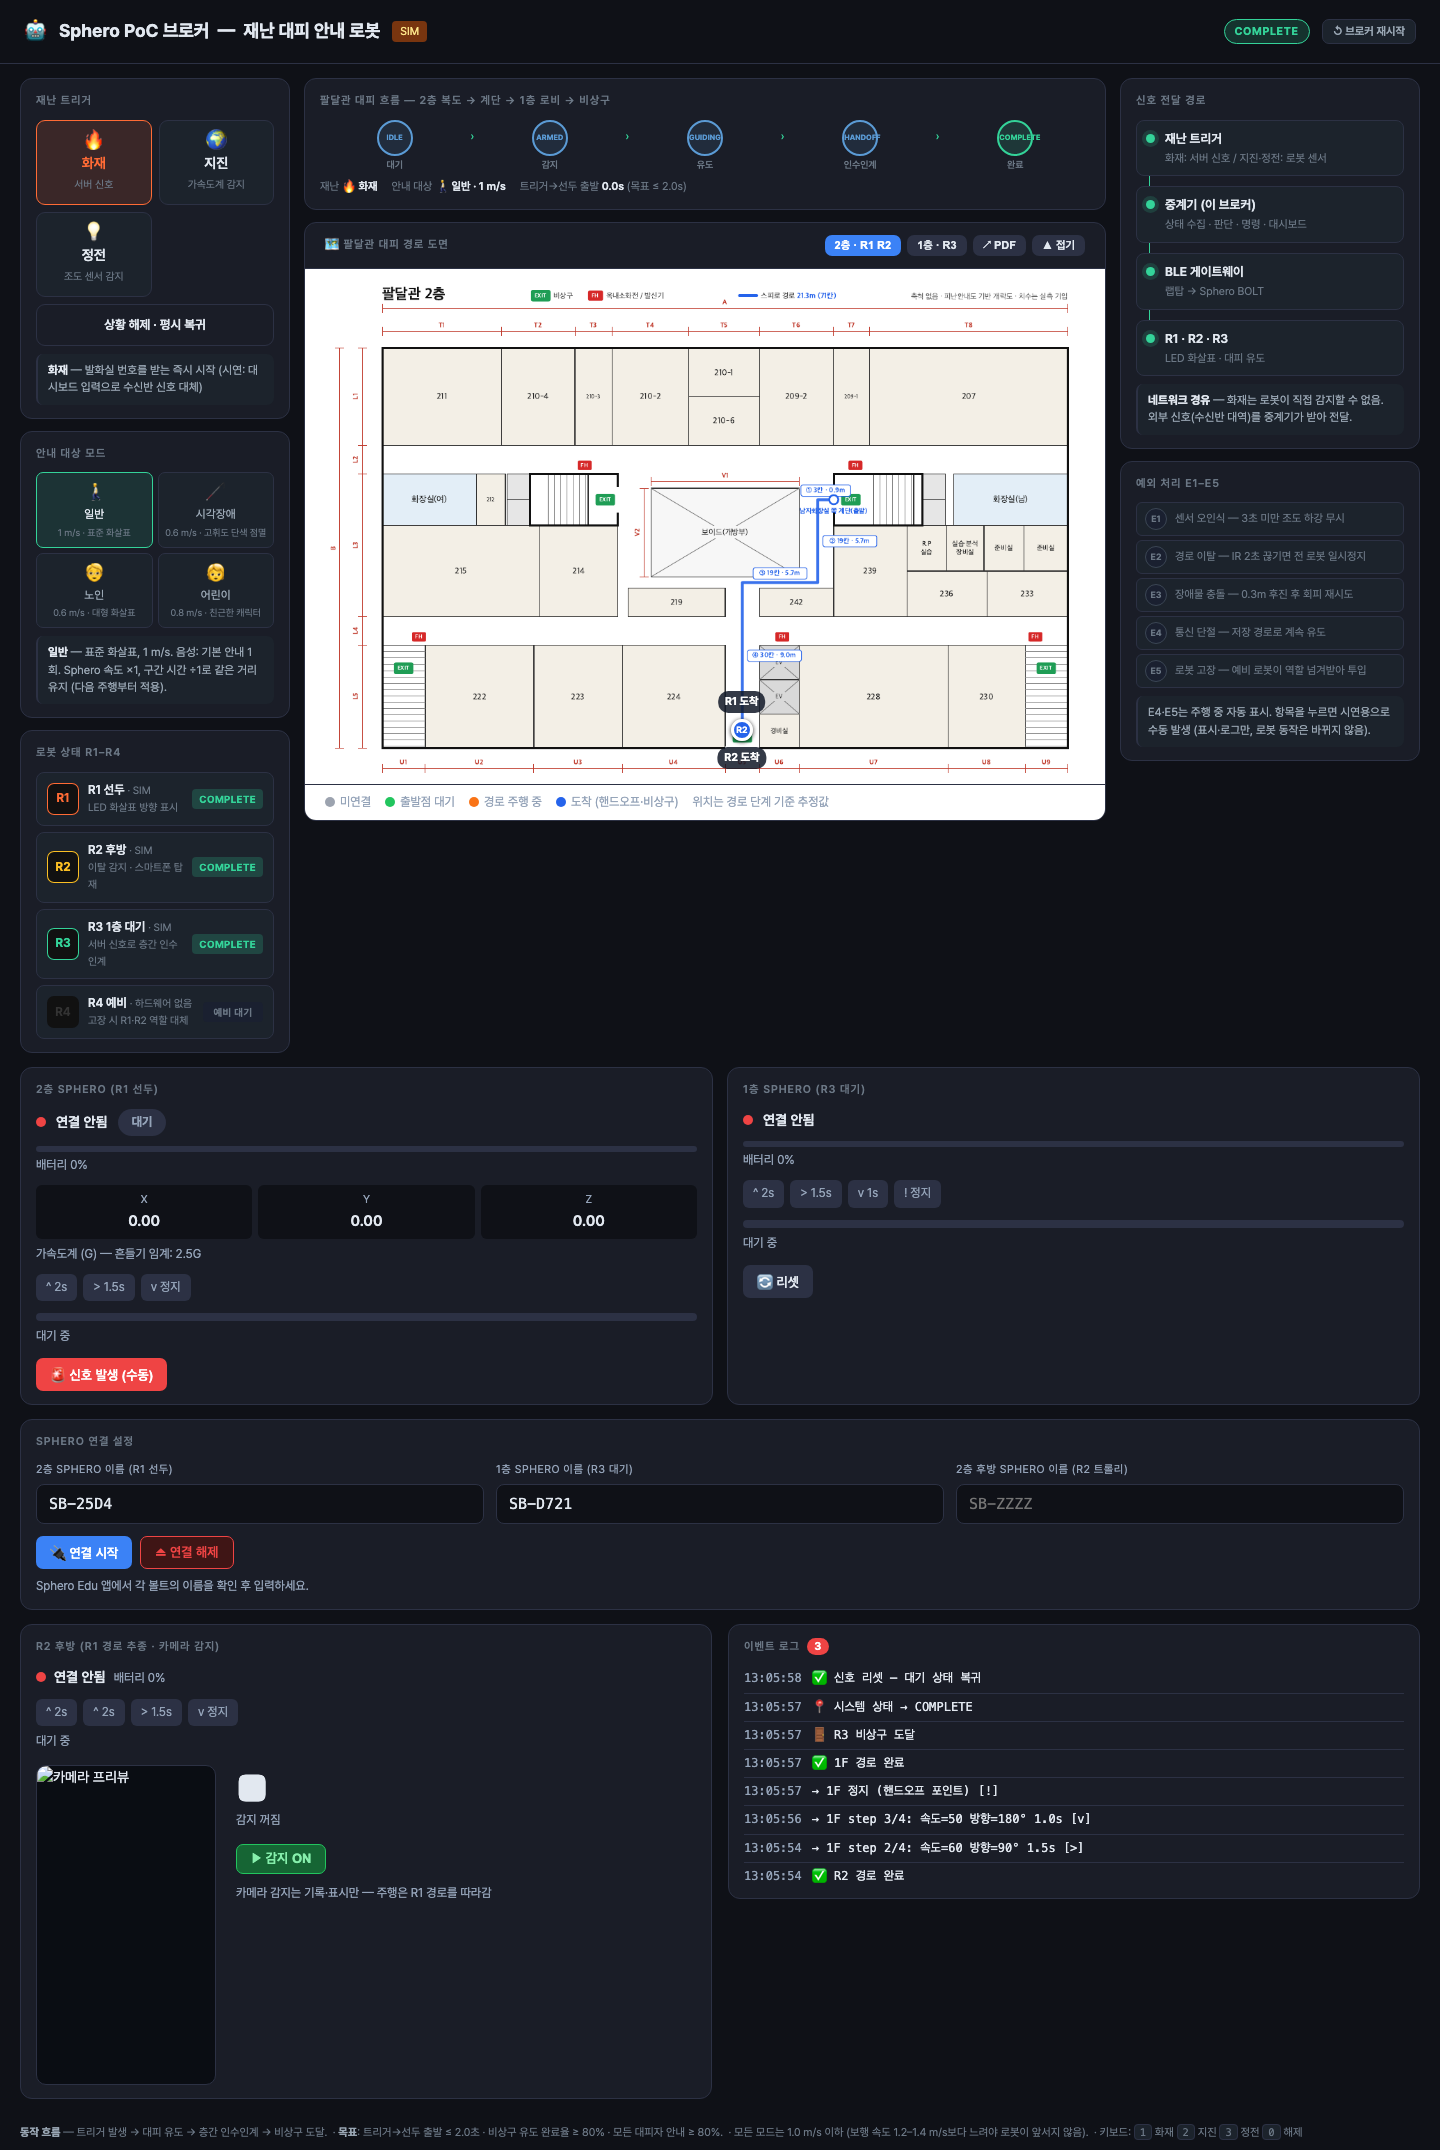
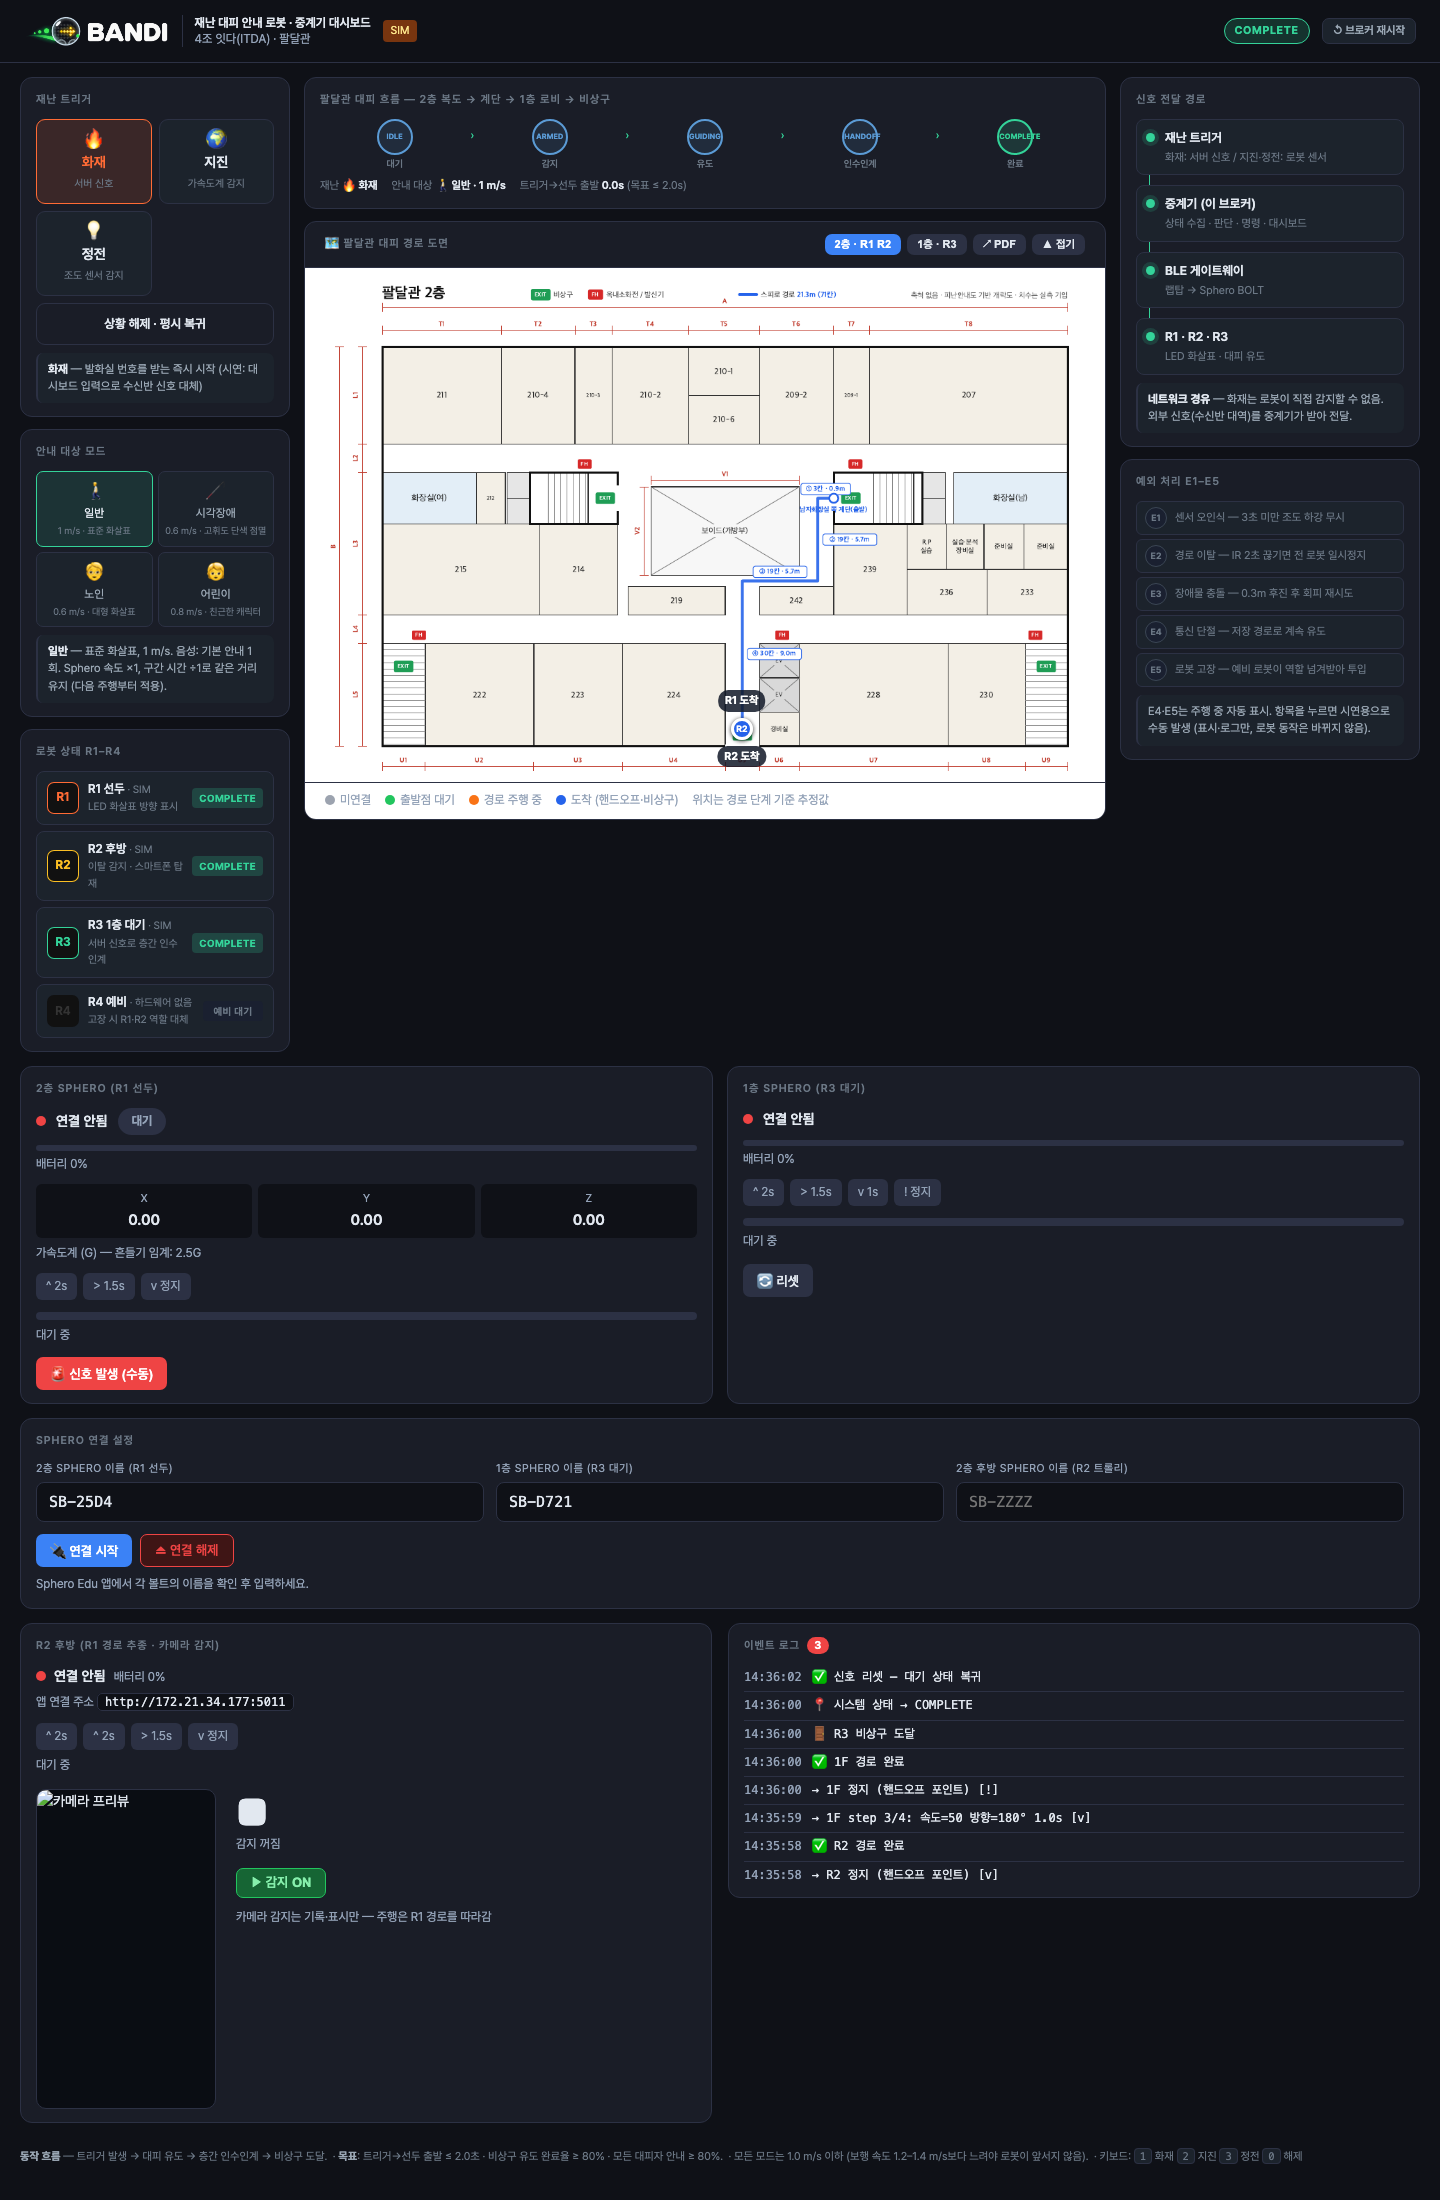
feat: BANDI 로고를 대시보드 헤더·파비콘·README에 적용
- brand/에 투명 배경 로고·원형 심볼·파비콘 추가, /brand/<name> 라우트로 제공
- 헤더를 BANDI 로고 + 서비스 설명으로 교체, 스크린샷 다시 캡처
- R2 카드에 앱 연결 주소(서버 사설망 IP:포트) 표시, 눌러서 복사

diff --git a/sphero_broker.py b/sphero_broker.py
@@ -20,6 +20,7 @@ import json
 import logging
 import base64
 import queue as _queue
+import socket
 from datetime import datetime
 from flask import Flask, jsonify, render_template_string, request as flask_request
 from flask_sock import Sock
@@ -124,6 +125,17 @@ _broker_stop_evt = threading.Event()
 _trigger_ts      = 0.0
 _last_shake_ts   = 0.0
 _run_gen         = 0    # 트리거·리셋마다 증가 — 이전 세대 주행 스레드는 스스로 멈춘다
+
+def _lan_ip() -> str:
+    """폰 앱이 접속할 이 맥의 사설망 IP (UDP connect는 패킷을 보내지 않음)"""
+    s = socket.socket(socket.AF_INET, socket.SOCK_DGRAM)
+    try:
+        s.connect(("10.255.255.255", 1))
+        return s.getsockname()[0]
+    except OSError:
+        return "127.0.0.1"
+    finally:
+        s.close()
 
 def _active(key: str) -> bool:
     """실제 연결됐거나 SIM 모드면 주행 대상"""
@@ -560,6 +572,19 @@ def floorplan():
     except FileNotFoundError:
         return Response("팔달관_도면.pdf 파일을 찾을 수 없습니다.", status=404)
 
+BRAND_FILES = {"logo": "bandi_logo.png", "symbol": "bandi_symbol.png", "favicon": "favicon.png"}
+
+@app.route("/brand/<name>")
+def brand_img(name):
+    from flask import send_file, Response
+    if name not in BRAND_FILES:
+        return Response("not found", status=404)
+    try:
+        return send_file(os.path.join(os.path.dirname(__file__), "brand", BRAND_FILES[name]),
+                         mimetype="image/png", max_age=86400)
+    except FileNotFoundError:
+        return Response(f"brand/{BRAND_FILES[name]} 파일을 찾을 수 없습니다.", status=404)
+
 @app.route("/floorplan-img/<floor>")
 def floorplan_img(floor):
     from flask import send_file, Response
@@ -588,6 +613,7 @@ def api_status():
             "sim_mode":      state["sim_mode"],
             "names":         state["names"],
             "connecting":    state["connecting"],
+            "server_ip":     _lan_ip(),
         })
 
 @app.route("/api/connect", methods=["POST"])
@@ -1003,7 +1029,9 @@ _DASHBOARD_HTML = r"""<!doctype html>
 <head>
 <meta charset="utf-8">
 <meta name="viewport" content="width=device-width,initial-scale=1">
-<title>Sphero PoC 브로커</title>
+<title>BANDI — 재난 대피 안내 브로커</title>
+<link rel="icon" type="image/png" href="/brand/favicon">
+<link rel="apple-touch-icon" href="/brand/symbol">
 <style>
 :root {
   --bg:   #0f1117;
@@ -1022,6 +1050,10 @@ body { background: var(--bg); color: var(--txt); font: 14px/1.6 'Pretendard', 'N
 
 header { padding: 14px 24px; border-bottom: 1px solid var(--bdr); display: flex; align-items: center; gap: 12px; }
 header h1 { font-size: 18px; font-weight: 700; }
+.brand-logo { height: 34px; width: auto; display: block; }
+.brand-sub { font-size: 12px; color: var(--dim); border-left: 1px solid var(--bdr); padding-left: 12px; line-height: 1.35; }
+.brand-sub b { color: var(--txt); font-weight: 600; }
+@media (max-width: 600px) { .brand-sub { display: none; } }
 .sim-badge { background: #78350f; color: #fde68a; font-size: 11px; padding: 2px 8px; border-radius: 4px; display: none; }
 
 .grid { display: grid; grid-template-columns: 1fr 1fr; gap: 14px; padding: 2px 20px 24px; }
@@ -1244,8 +1276,8 @@ kbd { background: var(--panel2); border: 1px solid var(--bdr); border-radius: 4p
 <body>
 
 <header>
-  <span style="font-size:22px;">🤖</span>
-  <h1>Sphero PoC 브로커 &nbsp;—&nbsp; 재난 대피 안내 로봇</h1>
+  <img class="brand-logo" src="/brand/logo" alt="BANDI">
+  <span class="brand-sub"><b>재난 대피 안내 로봇 · 중계기 대시보드</b><br>4조 잇다(ITDA) · 팔달관</span>
   <span class="sim-badge" id="simBadge">SIM</span>
   <span class="state-pill" id="statePill" title="시스템 상태">IDLE</span>
   <button class="hdr-btn" onclick="restartBroker()">↺ 브로커 재시작</button>
@@ -1435,6 +1467,13 @@ kbd { background: var(--panel2); border: 1px solid var(--bdr); border-radius: 4p
       <span id="connR2" style="font-weight:600;">연결 안됨</span>
       <span class="sub-label" id="batR2Txt">배터리 —</span>
     </div>
+    <div class="sub-label" style="margin-bottom:8px;">
+      앱 연결 주소
+      <code id="appUrl" title="눌러서 복사" onclick="copyAppUrl()"
+        style="cursor:pointer; color:var(--txt); background:var(--bg); border:1px solid var(--bdr);
+               border-radius:5px; padding:1px 7px; font:12px 'JetBrains Mono', monospace;">—</code>
+      <span id="appUrlCopied" style="color:var(--grn); display:none;">복사됨</span>
+    </div>
     <div class="path-steps" id="pathStepsR2"></div>
     <div class="sub-label" id="pathLabelR2" style="margin:6px 0 14px;">대기 중</div>
     <div class="follow-inner">
@@ -1601,6 +1640,23 @@ function renderFlow(d) {
     el.className = 'ex ' + v;
     el.querySelector('.est').textContent = v === 'triggered' ? '발생' : v === 'resolved' ? '처리됨' : '';
   });
+}
+
+function copyAppUrl() {
+  const url = document.getElementById('appUrl').textContent;
+  const done = () => {
+    const el = document.getElementById('appUrlCopied');
+    el.style.display = 'inline';
+    setTimeout(() => { el.style.display = 'none'; }, 1500);
+  };
+  if (navigator.clipboard && window.isSecureContext) {
+    navigator.clipboard.writeText(url).then(done).catch(() => {});
+  } else {
+    const ta = document.createElement('textarea');
+    ta.value = url; document.body.appendChild(ta); ta.select();
+    try { document.execCommand('copy'); done(); } catch (e) {}
+    ta.remove();
+  }
 }
 
 function toggleFloorplan() {
@@ -1823,6 +1879,8 @@ function update() {
 
       updateFloorplan(d);
       renderFlow(d);
+      document.getElementById('appUrl').textContent =
+        `http://${d.server_ip}:${location.port || (location.protocol === 'https:' ? 443 : 80)}`;
 
       // counter
       document.getElementById('triggerCount').textContent = d.trigger_count;
